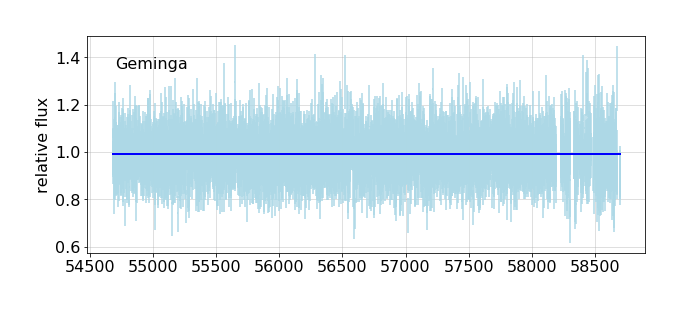
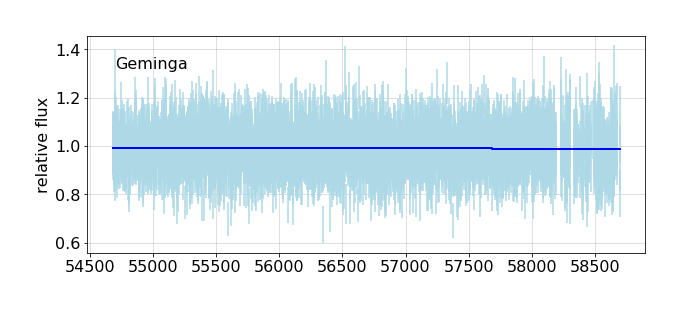
pretty up the analysis-2

diff --git a/docs/analysis.html b/docs/analysis.html
@@ -47,9 +47,9 @@ nb_path: "nbs/90_analysis.ipynb"
 </div>
 <div class="cell border-box-sizing text_cell rendered"><div class="inner_cell">
 <div class="text_cell_render border-box-sizing rendered_html">
-<h3 id="Introduction">Introduction<a class="anchor-link" href="#Introduction"> </a></h3><p>This notebook does not produce a module to add to the library, it a place to run, and report on analyses using the library. It uses local code, shown below.</p>
+<h2 id="Introduction">Introduction<a class="anchor-link" href="#Introduction"> </a></h2><p>This notebook does not produce a module to add to the library, it a place to run, and report on analyses using the library. It uses local code, shown below.</p>
 <p>This is an exploration of this style of presenting code, and data analysis based on it.</p>
-<h3 id="Geminga-analyses">Geminga analyses<a class="anchor-link" href="#Geminga-analyses"> </a></h3><p>Following Kerr's example, we use the source Geminga to check that the this analysis of data gives results consistent with its being constant. As you can see below, the BB analysis finds 16 breaks, which merit further checks. That is followed by a simulation using
+<h2 id="Geminga-analyses">Geminga analyses<a class="anchor-link" href="#Geminga-analyses"> </a></h2><p>Following Kerr's example, we use the source Geminga to check that the this analysis of data gives results consistent with its being constant. As you can see below, the BB analysis finds 16 breaks, which merit further checks. That is followed by a simulation using
 Geminga's weight distribution and exposure. The run shown here finds one minor break, a change of 0.1%.</p>
 
 </div>
@@ -151,7 +151,7 @@ Geminga's weight distribution and exposure. The run shown here finds one minor b
 
 <div class="inner_cell">
     <div class="input_area">
-<div class=" highlight hl-ipython3"><pre><span></span><span class="k">def</span> <span class="nf">analysis_plots</span><span class="p">(</span><span class="n">name</span><span class="p">,</span> <span class="n">simname</span><span class="o">=</span><span class="s1">&#39;&#39;</span><span class="p">):</span>
+<div class=" highlight hl-ipython3"><pre><span></span><span class="k">def</span> <span class="nf">analysis_plots</span><span class="p">(</span><span class="n">name</span><span class="p">,</span> <span class="n">expect</span><span class="o">=</span><span class="mf">0.991</span><span class="p">,</span> <span class="n">simname</span><span class="o">=</span><span class="s1">&#39;&#39;</span><span class="p">):</span>
     <span class="sd">&quot;&quot;&quot;</span>
 <span class="sd">    #### {sim} Geminga light curve</span>
 <span class="sd">    </span>
@@ -167,9 +167,9 @@ Geminga's weight distribution and exposure. The run shown here finds one minor b
 <span class="sd">    </span>
 <span class="sd">    {df_text}</span>
 <span class="sd">    The last column represents the compatibility of the flux measurement for each partition</span>
-<span class="sd">    with the expected value 1.0 in equivalent sigma units.</span>
+<span class="sd">    with the expected value {expect} in equivalent sigma units.</span>
 <span class="sd">    </span>
-<span class="sd">    Check for short, &lt; 100 day partitions.</span>
+<span class="sd">    Expand the plot around short, &lt; 100 day partitions.</span>
 <span class="sd">    {short_check}</span>
 <span class="sd">    </span>
 <span class="sd">    {fig2}</span>
@@ -185,7 +185,8 @@ Geminga's weight distribution and exposure. The run shown here finds one minor b
             <span class="n">lc</span><span class="p">,</span> <span class="n">bb_lc</span> <span class="o">=</span> <span class="n">simulation</span><span class="p">(</span><span class="n">config</span><span class="p">,</span> <span class="n">source</span><span class="p">,</span> <span class="n">bb_key</span><span class="o">=</span><span class="n">simname</span><span class="p">)</span> 
 
     <span class="n">pd</span><span class="o">.</span><span class="n">set_option</span><span class="p">(</span><span class="s1">&#39;display.precision&#39;</span><span class="p">,</span> <span class="mi">3</span><span class="p">)</span><span class="c1">#, &#39;display.colheader_justify&#39;,&#39;left&#39;)</span>
-    <span class="n">df</span> <span class="o">=</span> <span class="n">fit_table</span><span class="p">(</span><span class="n">bb_lc</span><span class="p">)</span>
+    <span class="n">expect</span>
+    <span class="n">df</span> <span class="o">=</span> <span class="n">fit_table</span><span class="p">(</span><span class="n">bb_lc</span><span class="p">,</span> <span class="n">expect</span><span class="o">=</span><span class="n">expect</span><span class="p">)</span>
     <span class="n">df_text</span> <span class="o">=</span> <span class="n">monospace</span><span class="p">(</span><span class="nb">str</span><span class="p">(</span><span class="n">df</span><span class="p">),</span> <span class="s1">&#39;BB fit table&#39;</span><span class="p">,</span> <span class="nb">open</span><span class="o">=</span><span class="kc">True</span><span class="p">)</span>
         
     <span class="n">plt</span><span class="o">.</span><span class="n">rc</span><span class="p">(</span><span class="s1">&#39;font&#39;</span><span class="p">,</span> <span class="n">size</span><span class="o">=</span><span class="mi">16</span><span class="p">)</span>
@@ -232,10 +233,10 @@ Geminga's weight distribution and exposure. The run shown here finds one minor b
    <img src="images/analysis_plots_fig_01.png" alt="Figure 1 at images/analysis_plots_fig_01.png" width=600> 
 </figure></a></div><p>Since this is a constant source, there should be no breaks, that is, only one partition.
 Here is a table of the partition fits:</p>
-<p><details open class="nbdoc-description" >  <summary> BB fit table </summary>  <div style="margin-left: 5%"><pre>          t      tw       n      e   flux           errors  sigma_dev<br>0   55027.0   688.0  207832  1.126  0.998  (-0.003, 0.003)       -0.5<br>1   55378.0    14.0    3797  0.911  1.122  (-0.024, 0.025)        5.1<br>2   55560.5   351.0   96416  1.028  0.985  (-0.004, 0.004)       -3.5<br>3   55748.0    24.0    6887  0.960  1.123  (-0.018, 0.018)        7.0<br>4   56113.0   706.0  190965  1.011  0.991  (-0.003, 0.003)       -2.8<br>5   56486.0    40.0   11267  0.989  1.070  (-0.014, 0.014)        5.3<br>6   56512.5    13.0    3402  1.046  0.901  (-0.021, 0.022)       -4.4<br>7   56673.5   309.0   84043  1.020  0.989  (-0.005, 0.005)       -2.3<br>8   56879.5   103.0   28168  0.996  1.027  (-0.008, 0.008)        3.2<br>9   56972.5    83.0   20961  0.957  0.966  (-0.009, 0.009)       -3.7<br>10  57017.5     7.0    2070  0.973  1.156  (-0.034, 0.034)        4.8<br>11  57109.0   176.0   45616  0.950  1.003  (-0.006, 0.006)        0.5<br>12  57197.5     1.0     149  0.852  0.535  (-0.066, 0.071)       -5.6<br>13  57723.0  1050.0  285243  1.013  0.993  (-0.003, 0.003)       -2.9<br>14  58274.0    52.0    9282  0.622  1.071  (-0.015, 0.015)        4.8<br>15  58468.5   337.0   74075  0.814  0.991  (-0.005, 0.005)       -1.7<br>16  58667.0    60.0   10261  0.586  1.078  (-0.015, 0.015)        5.5</pre></div> </details>
+<p><details open class="nbdoc-description" >  <summary> BB fit table </summary>  <div style="margin-left: 5%"><pre>          t      tw       n      e   flux           errors  sigma_dev<br>0   55027.0   688.0  207832  1.126  0.998  (-0.003, 0.003)        2.5<br>1   55378.0    14.0    3797  0.911  1.122  (-0.024, 0.025)        5.5<br>2   55560.5   351.0   96416  1.028  0.985  (-0.004, 0.004)       -1.5<br>3   55748.0    24.0    6887  0.960  1.123  (-0.018, 0.018)        7.5<br>4   56113.0   706.0  190965  1.011  0.991  (-0.003, 0.003)        0.1<br>5   56486.0    40.0   11267  0.989  1.070  (-0.014, 0.014)        6.0<br>6   56512.5    13.0    3402  1.046  0.901  (-0.021, 0.022)       -4.0<br>7   56673.5   309.0   84043  1.020  0.989  (-0.005, 0.005)       -0.4<br>8   56879.5   103.0   28168  0.996  1.027  (-0.008, 0.008)        4.3<br>9   56972.5    83.0   20961  0.957  0.966  (-0.009, 0.009)       -2.7<br>10  57017.5     7.0    2070  0.973  1.156  (-0.034, 0.034)        5.1<br>11  57109.0   176.0   45616  0.950  1.003  (-0.006, 0.006)        1.9<br>12  57197.5     1.0     149  0.852  0.535  (-0.066, 0.071)       -5.5<br>13  57723.0  1050.0  285243  1.013  0.993  (-0.003, 0.003)        0.6<br>14  58274.0    52.0    9282  0.622  1.071  (-0.015, 0.015)        5.5<br>15  58468.5   337.0   74075  0.814  0.991  (-0.005, 0.005)        0.1<br>16  58667.0    60.0   10261  0.586  1.078  (-0.015, 0.015)        6.1</pre></div> </details>
 The last column represents the compatibility of the flux measurement for each partition
-with the expected value 1.0 in equivalent sigma units.</p>
-<p>Check for short, &lt; 100 day partitions.
+with the expected value 0.991 in equivalent sigma units.</p>
+<p>Expand the plot around short, &lt; 100 day partitions.
 There are 9 such.</p>
 <div class="nbdoc_image">
 <a href="images/analysis_plots_fig_02.png"><figure style="margin-left: 5%">
@@ -281,10 +282,10 @@ There are 9 such.</p>
    <img src="images/analysis_sim_fig_01.png" alt="Figure 1 at images/analysis_sim_fig_01.png" width=600> 
 </figure></a></div><p>Since this is a constant source, there should be no breaks, that is, only one partition.
 Here is a table of the partition fits:</p>
-<p><details open class="nbdoc-description" >  <summary> BB fit table </summary>  <div style="margin-left: 5%"><pre>         t      tw       n      e   flux           errors  sigma_dev<br>0  56183.0  3000.0  872148  1.044  0.991  (-0.001, 0.001)       -6.4<br>1  58190.0  1014.0  246061  0.870  0.993  (-0.003, 0.003)       -2.8</pre></div> </details>
+<p><details open class="nbdoc-description" >  <summary> BB fit table </summary>  <div style="margin-left: 5%"><pre>         t      tw       n      e   flux           errors  sigma_dev<br>0  56183.0  3000.0  869950  1.044  0.989  (-0.001, 0.001)       -1.3<br>1  58190.0  1014.0  244968  0.870  0.989  (-0.003, 0.003)       -0.8</pre></div> </details>
 The last column represents the compatibility of the flux measurement for each partition
-with the expected value 1.0 in equivalent sigma units.</p>
-<p>Check for short, &lt; 100 day partitions.
+with the expected value 0.991 in equivalent sigma units.</p>
+<p>Expand the plot around short, &lt; 100 day partitions.
 None found.</p>
 
 </div>
@@ -299,8 +300,8 @@ None found.</p>
 
 <div class="cell border-box-sizing text_cell rendered"><div class="inner_cell">
 <div class="text_cell_render border-box-sizing rendered_html">
-<h3 id="TO-DO">TO DO<a class="anchor-link" href="#TO-DO"> </a></h3><ul>
-<li><p>Find out why, for the simulation, there is a 1% descrepancy between the measured and generated flux. There are two ways that likelihoods for adjacent cells are combined: the Bayesian Blocks uses tables generated from the Poisson-like representations to each cell, currently with 50 entries, while the fits to the blocks it recognizes uses the actual weights. I have not carefully compared these.</p>
+<h2 id="TO-DO">TO DO<a class="anchor-link" href="#TO-DO"> </a></h2><ul>
+<li><p>Find out why, for the simulation, and apparently for data, there is a 1% descrepancy between the measured and expected ($\alpha=0$) flux. There are two ways that likelihoods for adjacent cells are combined: the Bayesian Blocks uses tables generated from the Poisson-like representations to each cell, currently with 50 entries, while the fits to the blocks it recognizes uses the actual weights. I have not carefully compared these.</p>
 </li>
 <li><p>Look at the 9 or so intervals detected for the data, of which 5 have measured flux increases around 10%,  more than 4$\sigma$. Possibilities are a problem with the exposure, and a change in the background. The latter can be examined by a 2-D fit with $\beta$ free. Another possibility, fixing $\alpha=0$ and fitting $\beta$ is not (yet) supported.</p>
 </li>
@@ -329,7 +330,7 @@ None found.</p>
 <div class="output_area">
 
 <div class="output_subarea output_stream output_stdout output_text">
-<pre>Tue Dec 22 05:42:55 PST 2020
+<pre>Tue Dec 22 07:10:40 PST 2020
 </pre>
 </div>
 </div>
